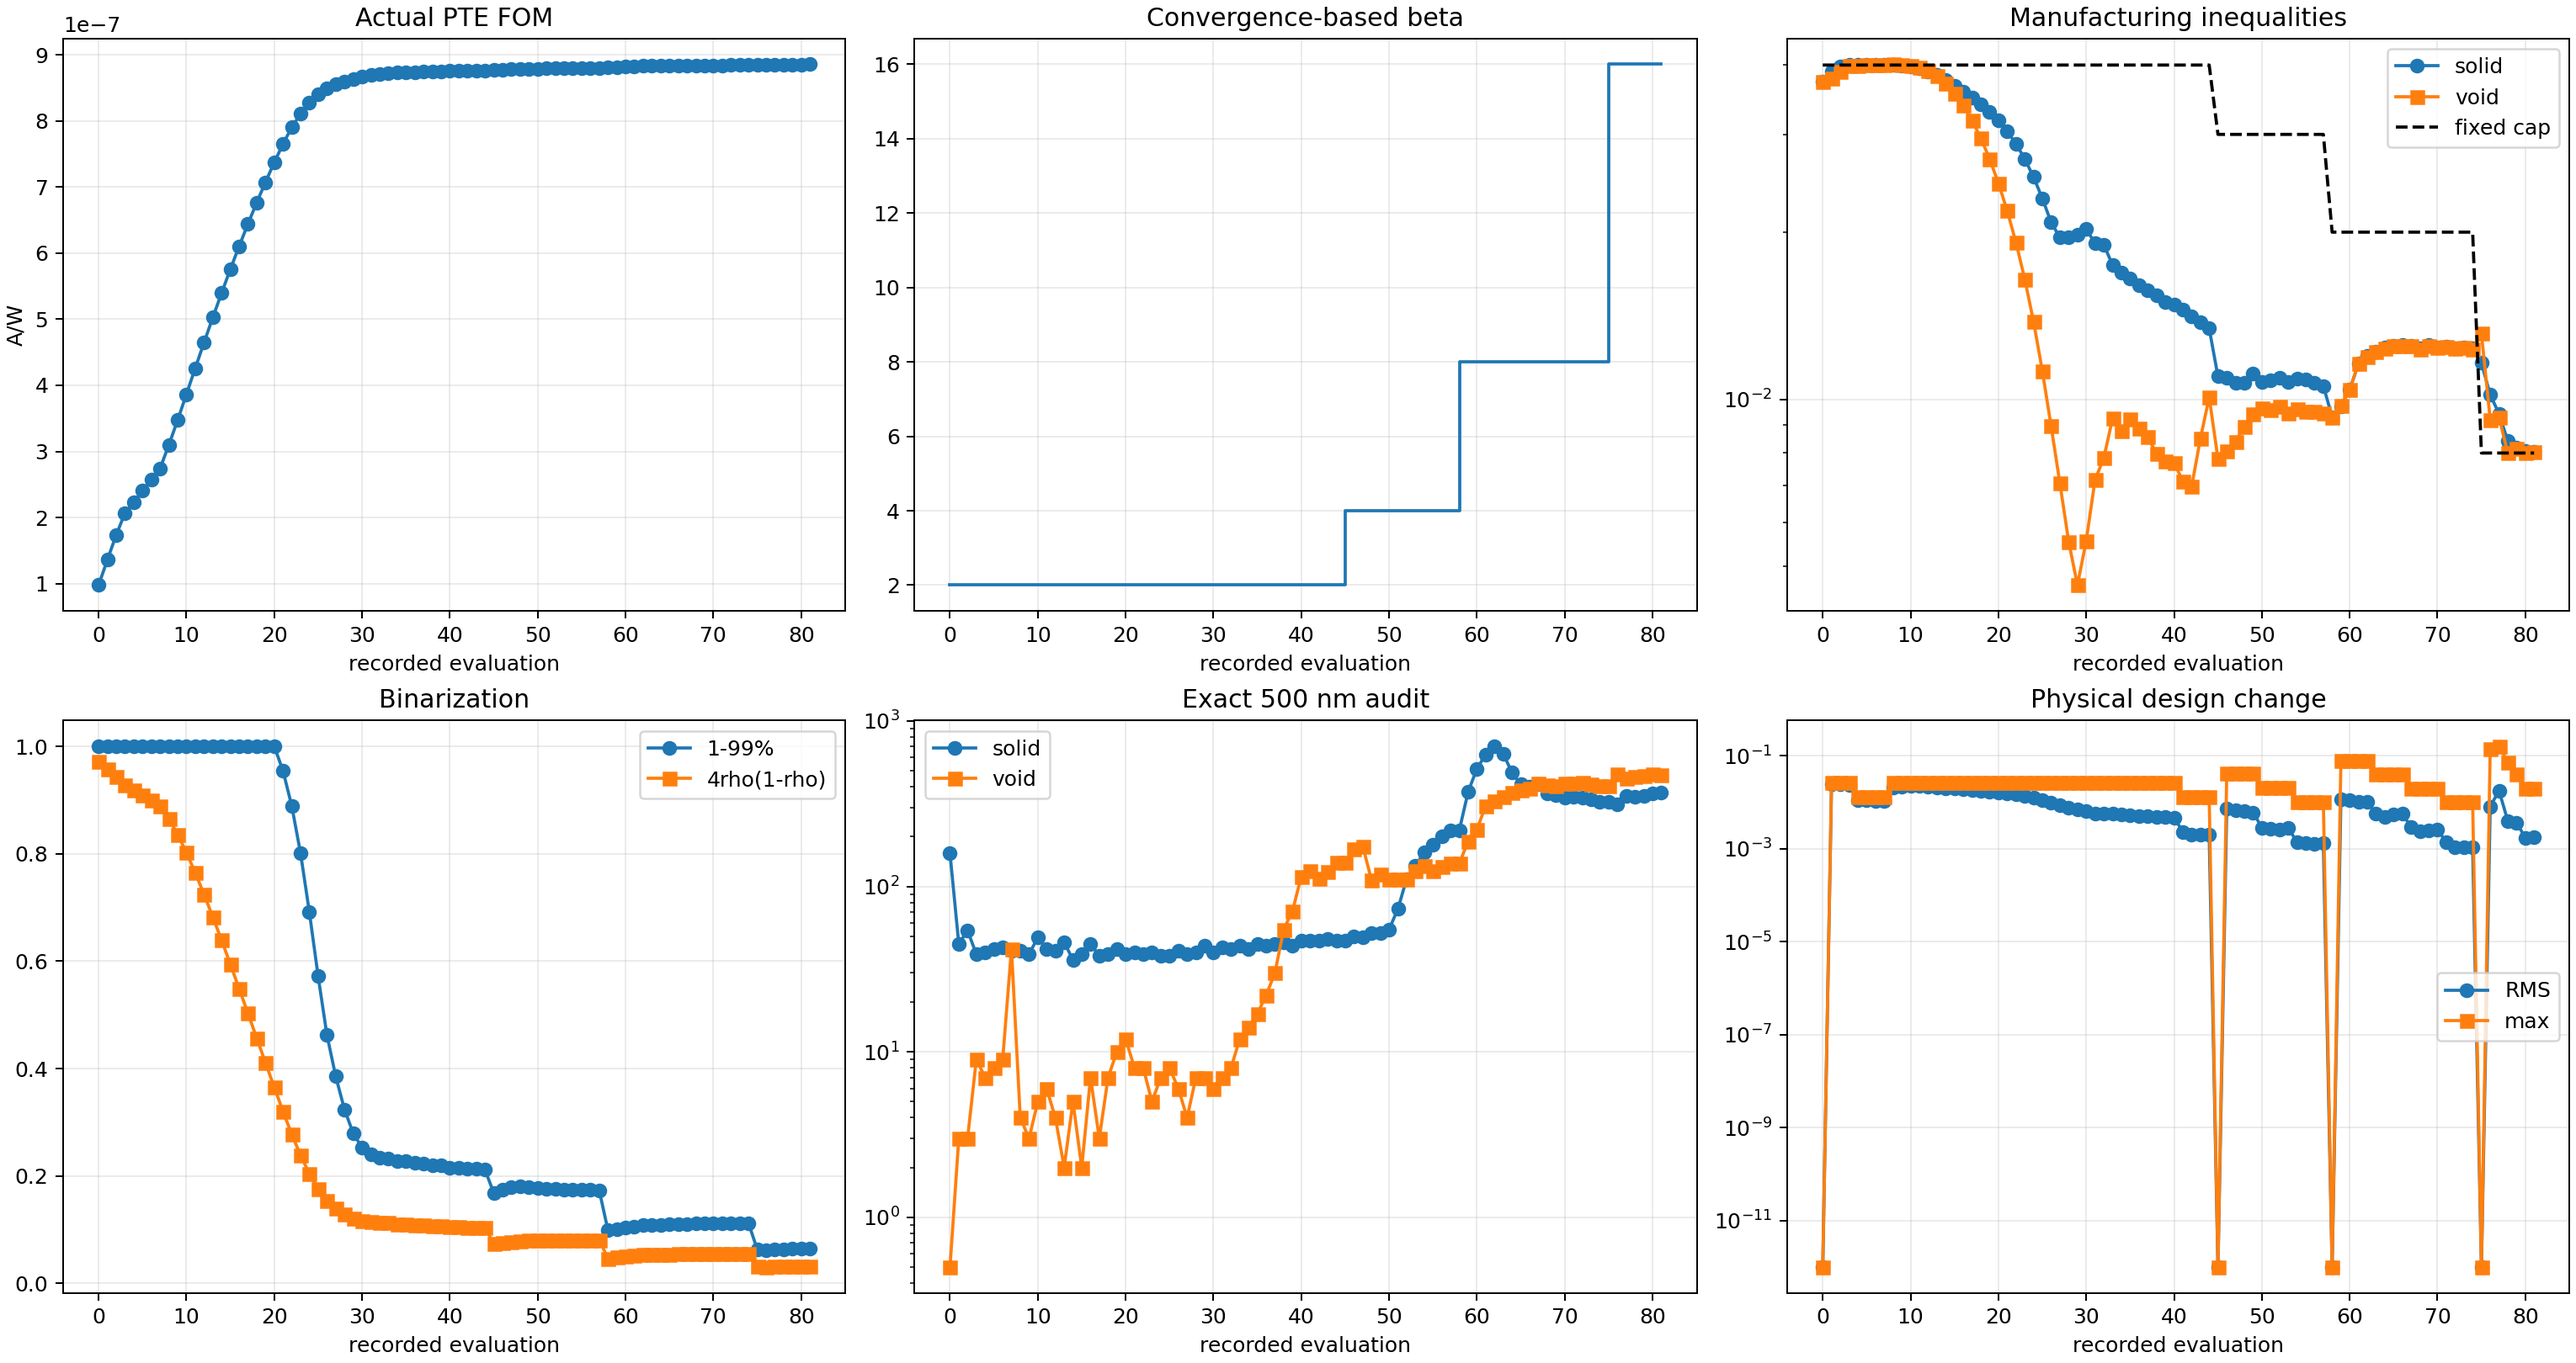
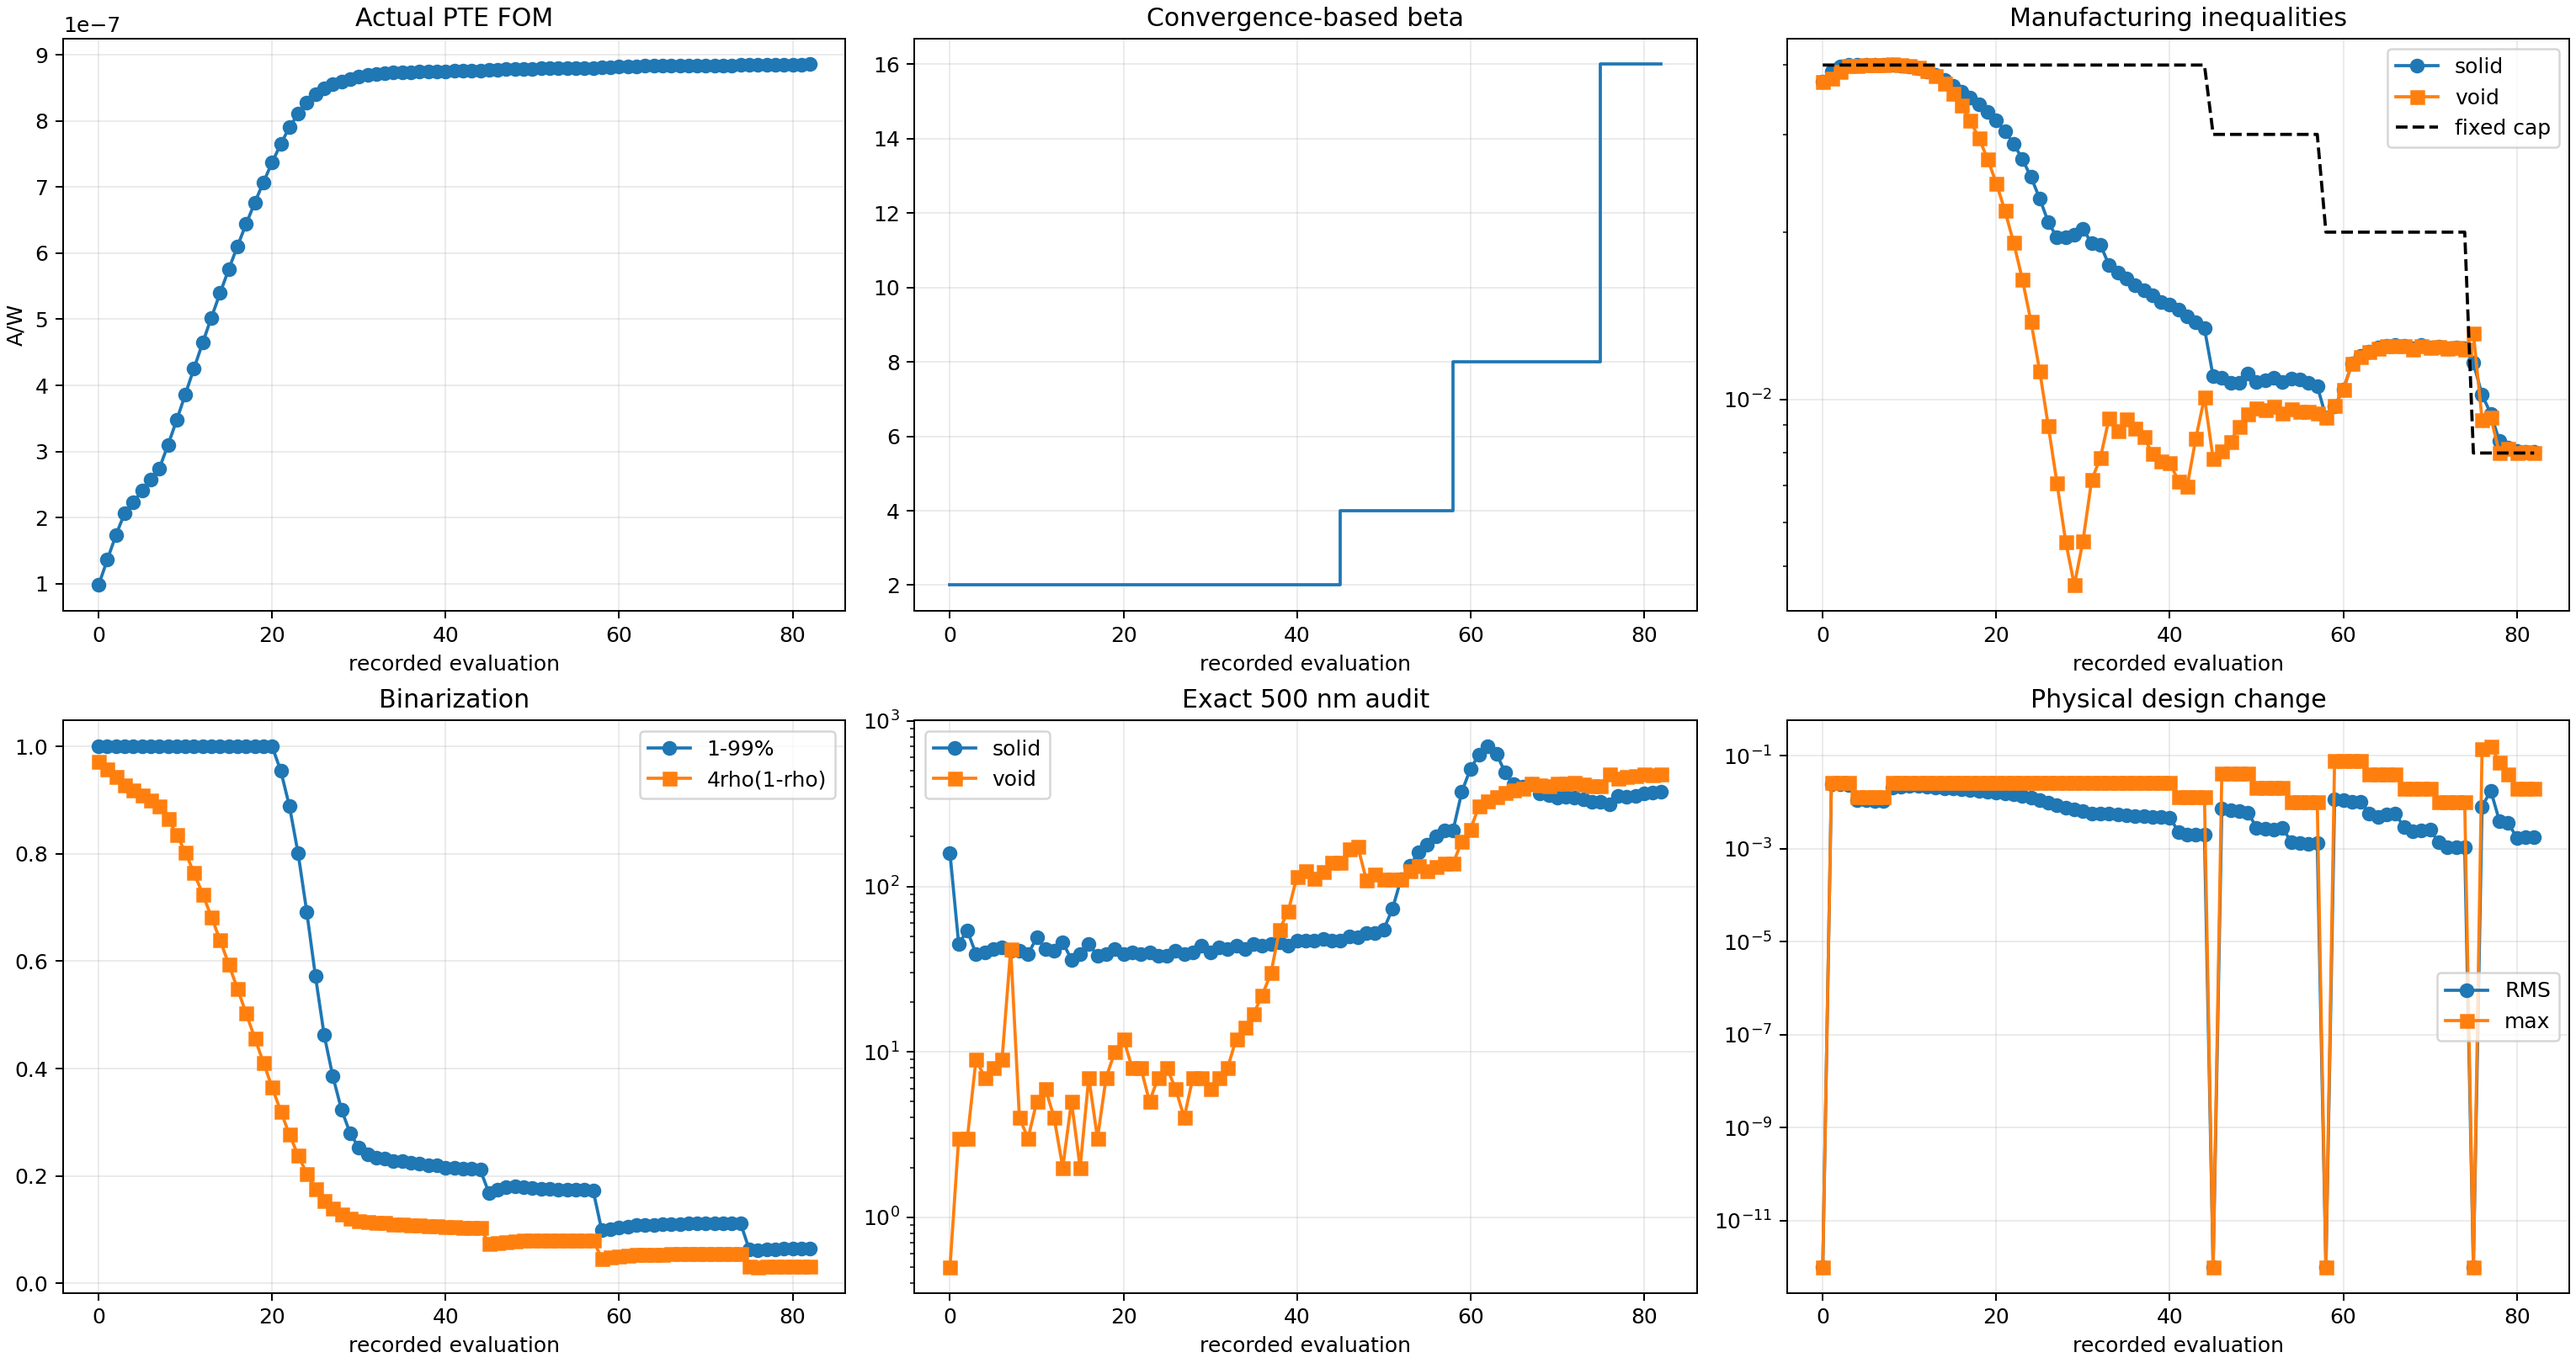
Record Run 003 run003_b016_s007_g079_accepted_mma

diff --git a/photothermal_pte/optimization_runs/run_003_gaussian10_w8p5_current_max_converged/results/OPTIMIZATION_REPORT.md b/photothermal_pte/optimization_runs/run_003_gaussian10_w8p5_current_max_converged/results/OPTIMIZATION_REPORT.md
@@ -2,10 +2,10 @@
 
 Status: `RUNNING_CONVERGENCE_BASED_CONSTRAINED_BETA_CONTINUATION`
 
-Current stage: beta=16, accepted stage iteration=6, global iteration=78.
+Current stage: beta=16, accepted stage iteration=7, global iteration=79.
 
-Actual FOM: `8.856678296313e-07 A/W`. Fixed-cap solid/void constraints: `8.046350e-03` / `8.033149e-03` with cap `8.000000e-03`.
+Actual FOM: `8.857417696431e-07 A/W`. Fixed-cap solid/void constraints: `8.051506e-03` / `8.023652e-03` with cap `8.000000e-03`.
 
-Exact 500 nm bad cells: solid `367`, void `474`. Stage convergence: `False` (need at least 8 accepted updates).
+Exact 500 nm bad cells: solid `373`, void `480`. Stage convergence: `False` (need at least 8 accepted updates).
 
 Beta is promoted only after fixed-inequality feasibility and a four-update FOM/design plateau; it is never promoted after one nominal update.
